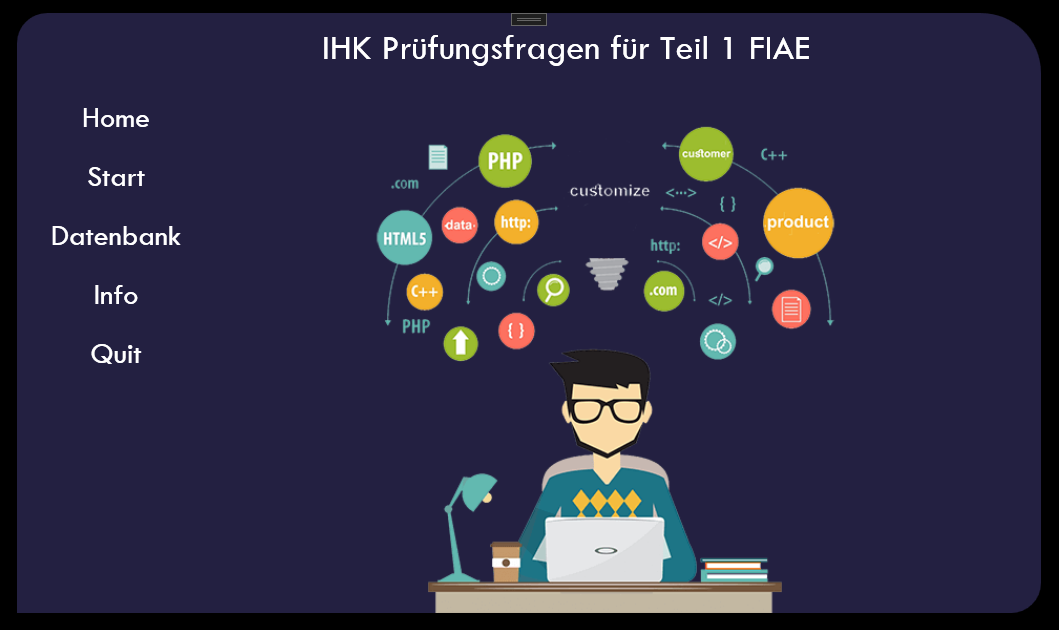
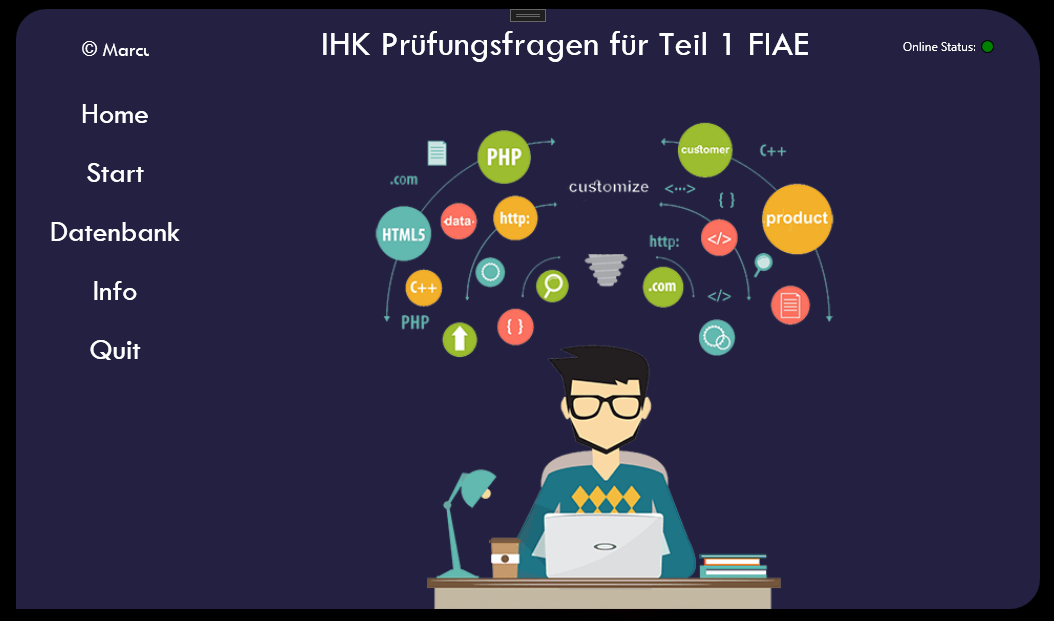
05.04.2022 16:14

diff --git a/Test_App/MainWindow.xaml b/Test_App/MainWindow.xaml
@@ -32,22 +32,24 @@
             </StackPanel>
             <Frame x:Name="frame" Grid.Column="1" Content="" Grid.Row="1" NavigationUIVisibility="Hidden"/>
             <Label Grid.Column="1" Content="IHK Prüfungsfragen für Teil 1 FIAE" HorizontalAlignment="Left" VerticalAlignment="Top" Height="65" Width="582" Foreground="White" FontSize="36" FontFamily="Tw Cen MT" Margin="102,10,0,0"/>
-            <TextBlock Name="website" Margin="20,30,19,17" FontSize="20" Foreground="White" FontFamily="Tw Cen MT" Width="160">
-                www.marcusferl.de
+            <TextBlock Name="website" Margin="20,30,19,17" FontSize="20" Foreground="White" FontFamily="Tw Cen MT" Width="130">
+                © Marcus Ferl
                 <TextBlock.Triggers>
                     <EventTrigger RoutedEvent="TextBlock.Loaded">
                         <BeginStoryboard>
                             <Storyboard>
                                 <DoubleAnimation
-            Storyboard.TargetName="website" 
-            Storyboard.TargetProperty="(TextBlock.Width)"
-            To="0.0" Duration="0:0:5" 
-            AutoReverse="True" RepeatBehavior="Forever" />
+                                        Storyboard.TargetName="website" 
+                                        Storyboard.TargetProperty="(TextBlock.Width)"
+                                        To="0.0" Duration="0:0:5" 
+                                        AutoReverse="True" RepeatBehavior="Forever" />
                             </Storyboard>
                         </BeginStoryboard>
                     </EventTrigger>
                 </TextBlock.Triggers>
             </TextBlock>
+            <Label Grid.Column="1" Content="Online Status: " HorizontalAlignment="Left" Margin="684,0,0,0" VerticalAlignment="Center" Background="{x:Null}" Foreground="#FFFDFDFD"/>
+            <Ellipse x:Name="online_status" Grid.Column="1" HorizontalAlignment="Left" Height="13" Margin="767,0,0,0" Stroke="Black" VerticalAlignment="Center" Width="13"/>
         </Grid>
     </Border>
 </Window>

diff --git a/Test_App/Views/Info.xaml b/Test_App/Views/Info.xaml
@@ -10,7 +10,7 @@
   Name="MyWipedText"
   Margin="20" 
   Width="480" Height="100" FontSize="48" FontWeight="Bold" Foreground="Maroon">
-  This is wiped text
+  Ist in Arbeit
 
   <!-- Animates the text block's width. -->
         <TextBlock.Triggers>

diff --git a/Test_App/MainWindow.xaml.cs b/Test_App/MainWindow.xaml.cs
@@ -1,6 +1,9 @@
 using System;
 using System.Collections.Generic;
 using System.Linq;
+using System.Net;
+using System.Net.Http;
+using System.Net.NetworkInformation;
 using System.Text;
 using System.Threading.Tasks;
 using System.Windows;
@@ -15,18 +18,25 @@ using System.Windows.Shapes;
 
 namespace Test_App
 {
+    
     /// <summary>
     /// Interaktionslogik für MainWindow.xaml
     /// </summary>
     public partial class MainWindow : Window
     {
+        public static Ellipse status { get; set; }
         public MainWindow()
         {
             InitializeComponent();
             frame.NavigationService.Navigate(new Views.HomeView());
+            Ping_Url();
+            status = online_status;
+          
 
         }
-      
+
+
+
 
         // Buttons
         private void home_on_click(object sender, RoutedEventArgs e)
@@ -56,13 +66,30 @@ namespace Test_App
 
         private void Drag_Window(object sender, MouseButtonEventArgs e)
         {
-                if (e.ChangedButton == MouseButton.Left)
-                    this.DragMove();
-         
+            if (e.ChangedButton == MouseButton.Left)
+                this.DragMove();
+
+        }
+        private void Ping_Url()
+        {
+            var hostUrl = "git.weifer.org";
+
+            Ping ping = new Ping();
+            try
+            {
+                PingReply result = ping.Send(hostUrl);
+                online_status.Fill = Brushes.Green;
+            }
+            catch (Exception ex)
+            {
+                online_status.Fill = Brushes.Red;
+                MessageBox.Show("Bitte deine Internetverbindung Prüfen und das Programm neu starten");
+            }
+            
+           
         }
 
 
-        // Json Parser
 
     }
 }

diff --git a/Test_App/Views/Database.xaml.cs b/Test_App/Views/Database.xaml.cs
@@ -40,7 +40,8 @@ namespace Test_App.Views
             }
             catch (System.Net.WebException e)
             {
-                throw e;
+                MainWindow.status.Fill = Brushes.Red;
+                MessageBox.Show("Server nicht erreichbar");
             }
 
 

diff --git a/Test_App/Readme.md b/Test_App/Readme.md
@@ -14,3 +14,16 @@ und man viel weniger auf externe Bibliotheken wie z.B in Python abhängig ist.
 <br>
 <br>
 ![Getting Started](Images/app_datenbank.png)
+
+<h4>#Randnotizen</h4>
+
+Runde Fenster Kanten
+
+Menü Button Hover -> Rahmen und Schriftgröße ändert sich (Style erstelen)
+
+Online Status -> Ping zur webseite -> Unterscheidung Server down oder eigenes Internet down
+
+Copy Right als Laufschrift
+
+Doppelklick auf Item in Datenbank -> öffnet neues Fenster mit der Antwort
+
